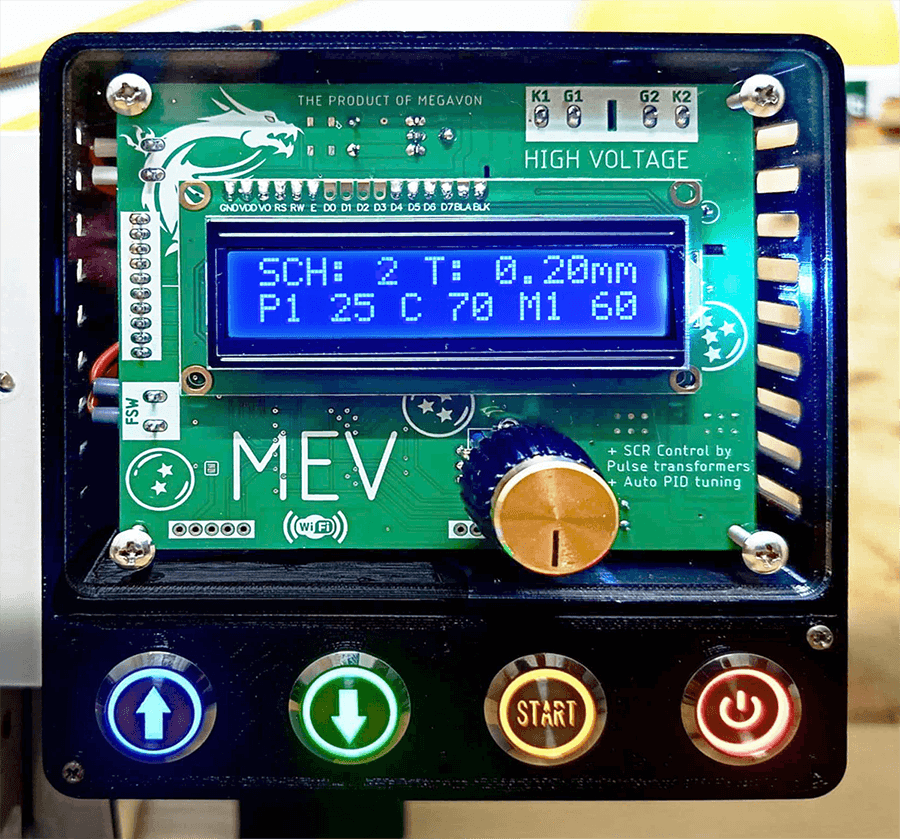
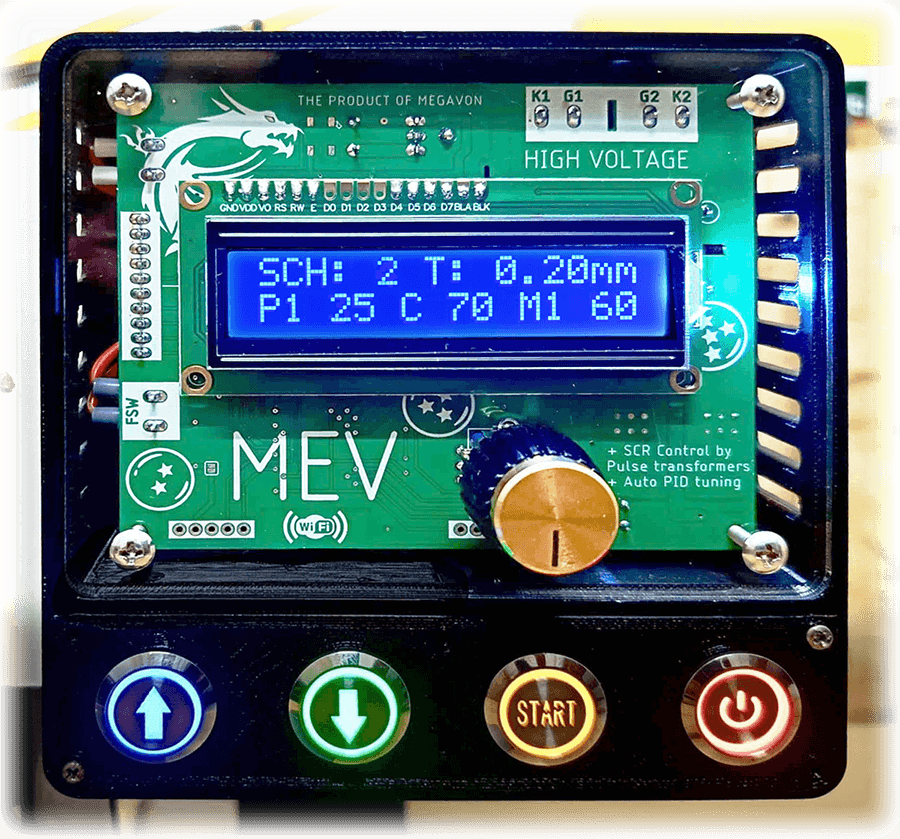
V22

diff --git a/docs/posts/huong-dan-nhanh-mach-rong/index.html b/docs/posts/huong-dan-nhanh-mach-rong/index.html
@@ -1,4 +1,4 @@
-<!doctype html><html lang=en><head><meta charset=utf-8><meta name=viewport content="width=device-width,initial-scale=1"><style>:root{--accent-color:#FF4D4D;--font-size:1.1rem}</style><title>Hướng dẫn nhanh mạch Rồng</title><meta name=description content="Hướng dẫn đơn giản, dễ hiểu để điều chỉnh nhanh mạch Rồng ngay sau khi đấu nối."><meta name=keywords content='mạch rồng,máy hàn cell pin,timer my my,guides,mach_han_cell,mach_rong'><meta property="og:url" content="https://megavon.net/posts/huong-dan-nhanh-mach-rong/"><meta property="og:type" content="website"><meta property="og:title" content="Hướng dẫn nhanh mạch Rồng"><meta property="og:description" content="Hướng dẫn đơn giản, dễ hiểu để điều chỉnh nhanh mạch Rồng ngay sau khi đấu nối."><meta property="og:image" content="https://megavon.net/posts/huong-dan-nhanh-mach-rong/drg-3D.png"><meta property="og:image:secure_url" content="https://megavon.net/posts/huong-dan-nhanh-mach-rong/drg-3D.png"><meta name=twitter:card content="summary_large_image"><meta name=twitter:title content="Hướng dẫn nhanh mạch Rồng"><meta name=twitter:description content="Hướng dẫn đơn giản, dễ hiểu để điều chỉnh nhanh mạch Rồng ngay sau khi đấu nối."><meta property="twitter:domain" content="https://megavon.net/posts/huong-dan-nhanh-mach-rong/"><meta property="twitter:url" content="https://megavon.net/posts/huong-dan-nhanh-mach-rong/"><meta name=twitter:image content="https://megavon.net/posts/huong-dan-nhanh-mach-rong/drg-3D.png"><link rel=canonical href=https://megavon.net/posts/huong-dan-nhanh-mach-rong/><link rel=stylesheet type=text/css href=/css/normalize.min.css media=print><link rel=stylesheet type=text/css href=/css/main.min.css><link id=dark-theme rel=stylesheet href=/css/dark.min.css><script src=/js/bundle.min.js></script><link rel=stylesheet href=https://cdn.jsdelivr.net/npm/katex@0.16.22/dist/katex.min.css integrity=sha384-5TcZemv2l/9On385z///+d7MSYlvIEw9FuZTIdZ14vJLqWphw7e7ZPuOiCHJcFCP crossorigin=anonymous><script defer src=https://cdn.jsdelivr.net/npm/katex@0.16.22/dist/katex.min.js integrity=sha384-cMkvdD8LoxVzGF/RPUKAcvmm49FQ0oxwDF3BGKtDXcEc+T1b2N+teh/OJfpU0jr6 crossorigin=anonymous></script><script defer src=https://cdn.jsdelivr.net/npm/katex@0.16.22/dist/contrib/auto-render.min.js integrity=sha384-hCXGrW6PitJEwbkoStFjeJxv+fSOOQKOPbJxSfM6G5sWZjAyWhXiTIIAmQqnlLlh crossorigin=anonymous></script><script>document.addEventListener("DOMContentLoaded",function(){renderMathInElement(document.body,{delimiters:[{left:"$$",right:"$$",display:!0},{left:"$",right:"$",display:!1}],throwOnError:!1})})</script></head><body><script>setThemeByUserPref()</script><header class=header><nav class=header-nav><div class=avatar><a href=https://megavon.net/><img src=/images/avatar.jpg alt=megavon></a></div><div class=nav-title><a class=nav-brand href=https://megavon.net/>MeV</a></div><div class=nav-links><div class=nav-link><a href=https://megavon.net/ aria-label><span data-feather=home></span> Trang chủ</a></div><div class=nav-link><a href=https://megavon.net/posts/ aria-label><span data-feather=book></span> Bài viết</a></div><div class=nav-link><a href=https://megavon.net/guides/ aria-label><span data-feather=code></span> Tài liệu</a></div><div class=nav-link><a href=https://megavon.net/tags/ aria-label><span data-feather=tag></span> Tags</a></div><span class=nav-icons-divider></span><div class="nav-link dark-theme-toggle"><span class="sr-only dark-theme-toggle-screen-reader-target">theme</span>
+<!doctype html><html lang=en><head><meta charset=utf-8><meta name=viewport content="width=device-width,initial-scale=1"><style>:root{--accent-color:#FF4D4D;--font-size:1.1rem}</style><title>Hướng dẫn nhanh mạch Rồng</title><meta name=description content="Hướng dẫn đơn giản, dễ hiểu để điều chỉnh nhanh mạch Rồng ngay sau khi đấu nối."><meta name=keywords content='mạch rồng,máy hàn cell pin,timer my my,guides,mach_han_cell,mach_rong'><meta property="og:url" content="https://megavon.net/posts/huong-dan-nhanh-mach-rong/"><meta property="og:type" content="website"><meta property="og:title" content="Hướng dẫn nhanh mạch Rồng"><meta property="og:description" content="Hướng dẫn đơn giản, dễ hiểu để điều chỉnh nhanh mạch Rồng ngay sau khi đấu nối."><meta property="og:image" content="https://megavon.net/posts/huong-dan-nhanh-mach-rong/cover.png"><meta property="og:image:secure_url" content="https://megavon.net/posts/huong-dan-nhanh-mach-rong/cover.png"><meta name=twitter:card content="summary_large_image"><meta name=twitter:title content="Hướng dẫn nhanh mạch Rồng"><meta name=twitter:description content="Hướng dẫn đơn giản, dễ hiểu để điều chỉnh nhanh mạch Rồng ngay sau khi đấu nối."><meta property="twitter:domain" content="https://megavon.net/posts/huong-dan-nhanh-mach-rong/"><meta property="twitter:url" content="https://megavon.net/posts/huong-dan-nhanh-mach-rong/"><meta name=twitter:image content="https://megavon.net/posts/huong-dan-nhanh-mach-rong/cover.png"><link rel=canonical href=https://megavon.net/posts/huong-dan-nhanh-mach-rong/><link rel=stylesheet type=text/css href=/css/normalize.min.css media=print><link rel=stylesheet type=text/css href=/css/main.min.css><link id=dark-theme rel=stylesheet href=/css/dark.min.css><script src=/js/bundle.min.js></script><link rel=stylesheet href=https://cdn.jsdelivr.net/npm/katex@0.16.22/dist/katex.min.css integrity=sha384-5TcZemv2l/9On385z///+d7MSYlvIEw9FuZTIdZ14vJLqWphw7e7ZPuOiCHJcFCP crossorigin=anonymous><script defer src=https://cdn.jsdelivr.net/npm/katex@0.16.22/dist/katex.min.js integrity=sha384-cMkvdD8LoxVzGF/RPUKAcvmm49FQ0oxwDF3BGKtDXcEc+T1b2N+teh/OJfpU0jr6 crossorigin=anonymous></script><script defer src=https://cdn.jsdelivr.net/npm/katex@0.16.22/dist/contrib/auto-render.min.js integrity=sha384-hCXGrW6PitJEwbkoStFjeJxv+fSOOQKOPbJxSfM6G5sWZjAyWhXiTIIAmQqnlLlh crossorigin=anonymous></script><script>document.addEventListener("DOMContentLoaded",function(){renderMathInElement(document.body,{delimiters:[{left:"$$",right:"$$",display:!0},{left:"$",right:"$",display:!1}],throwOnError:!1})})</script></head><body><script>setThemeByUserPref()</script><header class=header><nav class=header-nav><div class=avatar><a href=https://megavon.net/><img src=/images/avatar.jpg alt=megavon></a></div><div class=nav-title><a class=nav-brand href=https://megavon.net/>MeV</a></div><div class=nav-links><div class=nav-link><a href=https://megavon.net/ aria-label><span data-feather=home></span> Trang chủ</a></div><div class=nav-link><a href=https://megavon.net/posts/ aria-label><span data-feather=book></span> Bài viết</a></div><div class=nav-link><a href=https://megavon.net/guides/ aria-label><span data-feather=code></span> Tài liệu</a></div><div class=nav-link><a href=https://megavon.net/tags/ aria-label><span data-feather=tag></span> Tags</a></div><span class=nav-icons-divider></span><div class="nav-link dark-theme-toggle"><span class="sr-only dark-theme-toggle-screen-reader-target">theme</span>
 <a aria-hidden=true role=switch><span class=theme-toggle-icon data-feather=moon></span></a></div><div class=nav-link id=hamburger-menu-toggle><span class="sr-only hamburger-menu-toggle-screen-reader-target">menu</span>
 <a aria-checked=false aria-labelledby=hamburger-menu-toggle id=hamburger-menu-toggle-target role=switch><span data-feather=menu></span></a></div><ul class="nav-hamburger-list visibility-hidden"><li class=nav-item><a href=https://megavon.net/><span data-feather=home></span> Trang chủ</a></li><li class=nav-item><a href=https://megavon.net/posts/><span data-feather=book></span> Bài viết</a></li><li class=nav-item><a href=https://megavon.net/guides/><span data-feather=code></span> Tài liệu</a></li><li class=nav-item><a href=https://megavon.net/tags/><span data-feather=tag></span> Tags</a></li><li class="nav-item dark-theme-toggle"><span class="sr-only dark-theme-toggle-screen-reader-target">theme</span>
 <a role=switch><span class=theme-toggle-icon data-feather=moon></span></a></li></ul></div></nav></header><main id=content><div class="post container"><div class=post-header-section><h1>Hướng dẫn nhanh mạch Rồng</h1><small role=doc-subtitle>Hướng dẫn đơn giản, dễ hiểu để điều chỉnh nhanh mạch Rồng ngay sau khi đấu nối.</small><p class=post-date>02 tháng 11 năm 2025</p><ul class=post-tags><li class=post-tag><a href=https://megavon.net/tags/guides>guides</a></li><li class=post-tag><a href=https://megavon.net/tags/mach_han_cell>mach_han_cell</a></li><li class=post-tag><a href=https://megavon.net/tags/mach_rong>mach_rong</a></li></ul></div><div class=post-content><figure><img src=/posts/huong-dan-nhanh-mach-rong/drg-3D.png alt="Mạch rồng 3D"></figure><h2 id=1-đồng-bộ-điện-áp-hiển-thị-trên-mạch>1. Đồng bộ điện áp hiển thị trên mạch</h2><ul><li>Tắt nguồn điện.</li><li><strong>Ấn giữ núm xoay</strong>, sau đó <strong>bật nguồn</strong> để vào Hệ thống</li><li>Vào mục <strong>Nâng cao → Chỉnh áp AC</strong>.</li><li>Chỉnh cho <strong>điện áp hiển thị khớp với điện áp thực tế</strong>.</li><li>Để thoát ra ngoài: Phần mềm → Khởi động</li></ul><hr><h2 id=2-kiểm-tra-tín-hiệu-kích-biến-áp>2. Kiểm tra tín hiệu kích biến áp</h2><ul><li>Kích hàn thử (không có pin và kẽm).</li><li>Nếu <strong>không có điện vào biến áp</strong>, hãy <strong>đảo lại dây nguồn 12V AC</strong> cấp vào mạch (Các dây khác giữ nguyên).</li></ul><hr><h2 id=3-chỉnh-thông-số-hàn>3. Chỉnh thông số hàn</h2><p>Ví dụ hiển thị trên màn hình:</p><pre tabindex=0><code>SCH: 2 T: 0.20mm

diff --git a/content/posts/huong-dan-nhanh-mach-rong/index.md b/content/posts/huong-dan-nhanh-mach-rong/index.md
@@ -6,7 +6,7 @@ tags: ["guides", "mach_han_cell", "mach_rong"]
 type: post
 weight: 25
 showTableOfContents: true
-image: "/posts/huong-dan-nhanh-mach-rong/drg-3D.png"
+image: "/posts/huong-dan-nhanh-mach-rong/cover.png"
 ---
 
 {{< figure src="drg-3D.png" alt="Mạch rồng 3D" >}}
